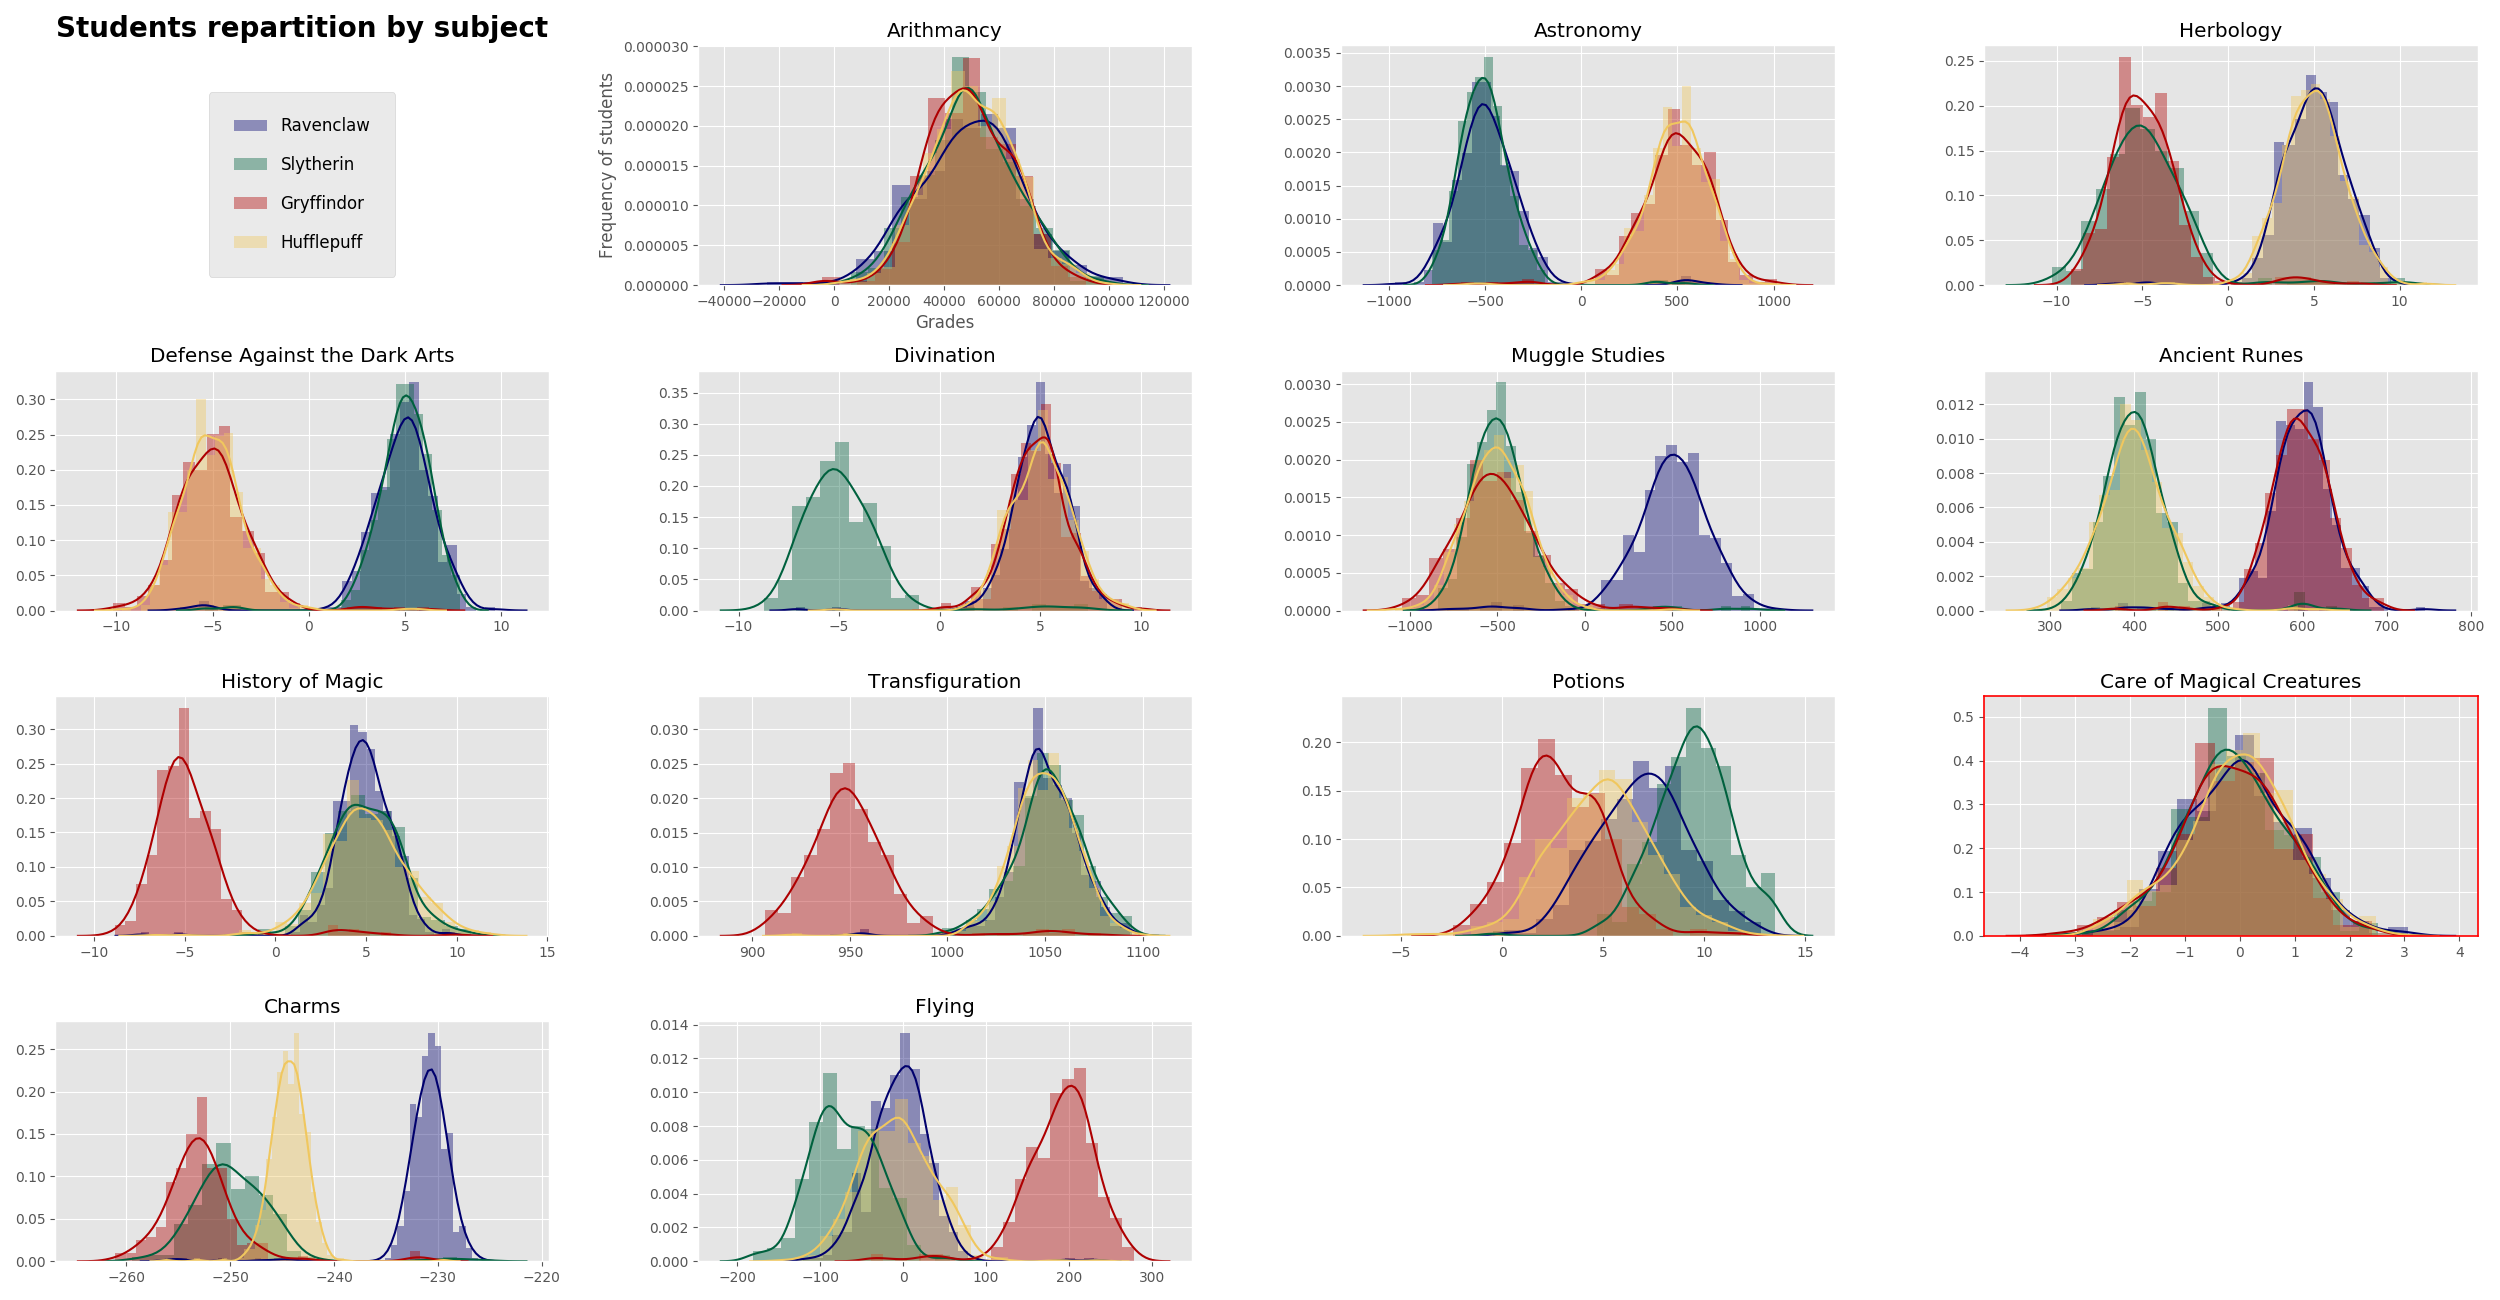
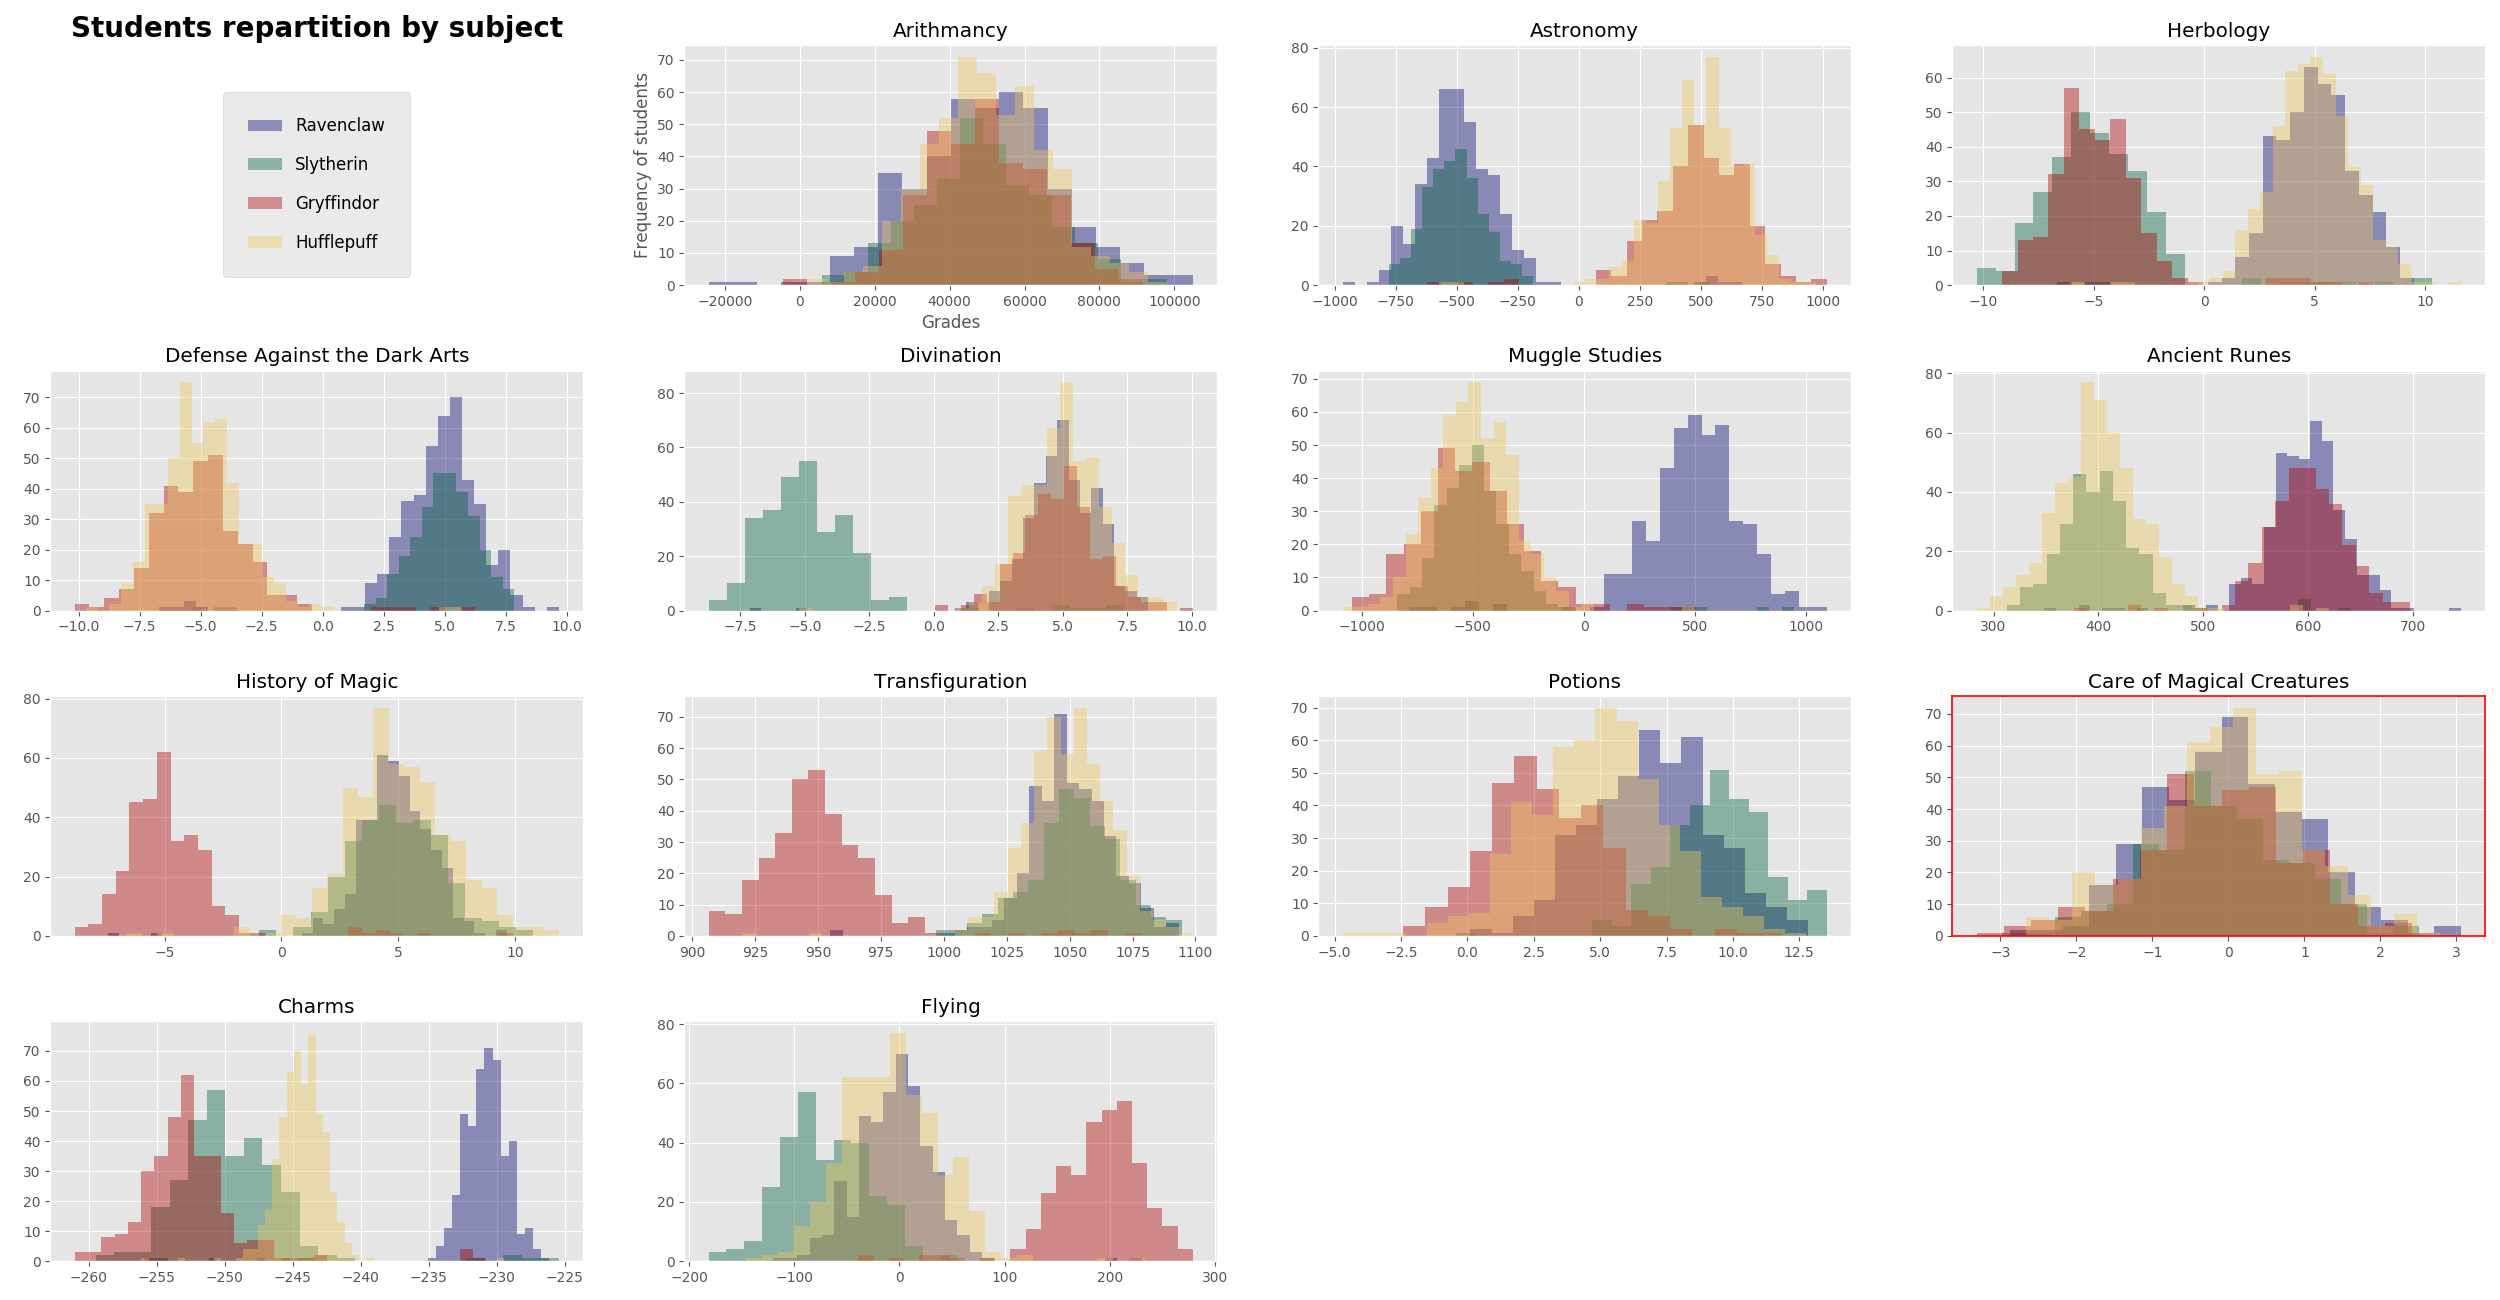
done.

diff --git a/histogram.py b/histogram.py
@@ -1,6 +1,7 @@
 #!/usr/bin/env python3
 
 import sys
+import os
 import argparse
 import numpy as np
 import pandas as pd
@@ -9,7 +10,6 @@ import seaborn as sns
 
 
 def ft_argparser():
-
 	parser = argparse.ArgumentParser()
 	parser.add_argument("data_file", type=str, help="csv file containing the data to analyze")
 	parser.add_argument("-k", "--kde",  action="store_true", help="Plot a kernel density function around histograms for better analysis")
@@ -48,6 +48,8 @@ def draw_histogram(df, kde):
 	handles, labels = axs[3,0].get_legend_handles_labels()
 	axs[0, 0].legend(handles, labels, loc="lower center", borderpad=1.5, labelspacing=1.25)
 	axs[0,0].set_title('Students repartition by subject', fontsize=20, fontweight='bold')
+	if not os.path.exists('./plots'):
+		os.makedirs('./plots')
 	plt.savefig('plots/histogram.png')
 	plt.show()
 	return None

diff --git a/scatter_plot.py b/scatter_plot.py
@@ -1,6 +1,7 @@
 #!/usr/bin/env python3
 
 import sys
+import os
 import argparse
 import pandas as pd
 import matplotlib.pyplot as plt
@@ -22,6 +23,8 @@ def draw_scatterplot(df):
 	colors = {'Ravenclaw': '#00006d', 'Slytherin': '#00613e', 'Gryffindor': "#ae0001", 'Hufflepuff': '#f0c75e'}
 	sns.scatterplot(x="Care of Magical Creatures", y="Arithmancy", hue='Hogwarts House', palette=colors, data=df, ax=ax)
 	ax.legend(loc="upper right")
+	if not os.path.exists('./plots'):
+		os.makedirs('./plots')
 	plt.savefig('plots/scatter_plot.png')
 	plt.show()
 	return None

diff --git a/pair_plot.py b/pair_plot.py
@@ -1,6 +1,7 @@
 #!/usr/bin/env python3
 
 import sys
+import os
 import argparse
 import pandas as pd
 import matplotlib.pyplot as plt
@@ -20,6 +21,8 @@ def draw_pairplot(df):
 	g = sns.pairplot(df, hue='Hogwarts House', palette=colors)
 	g._legend.remove()
 	plt.tight_layout()
+	if not os.path.exists('./plots'):
+		os.makedirs('./plots')
 	plt.savefig('plots/pair_plot.png')
 	plt.show()
 	return None

diff --git a/logreg_files/algo_logreg.py b/logreg_files/algo_logreg.py
@@ -208,7 +208,6 @@ class Algo:
 										   ax=fig.add_subplot(2, 2, i + 1),
 										   title=f"Cost evolution for {h} classifier",
 										   x_label="Iterations", y_label="J_history")
-
 			return graphs_cost
 
 		graphs_cost = init_graphs()
